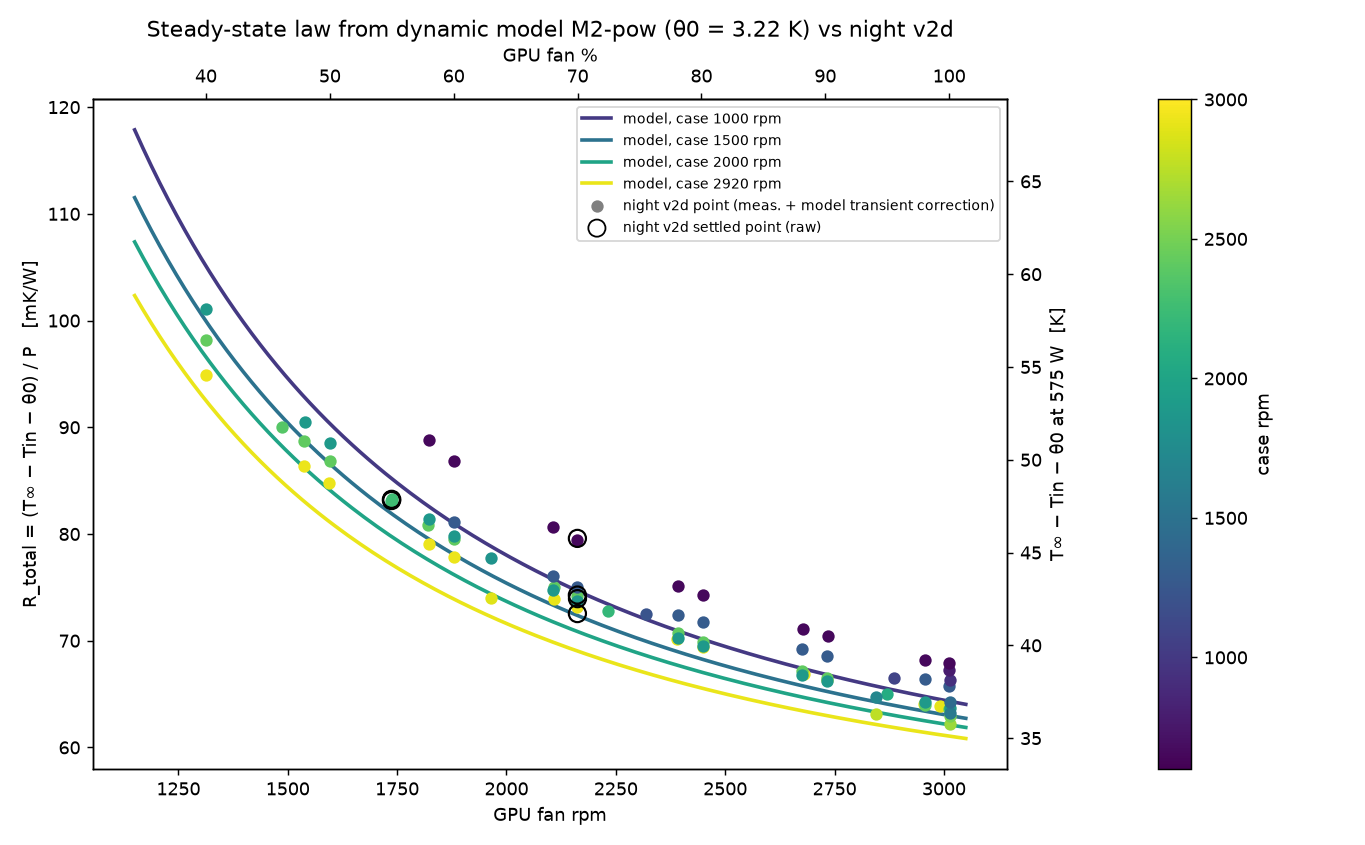
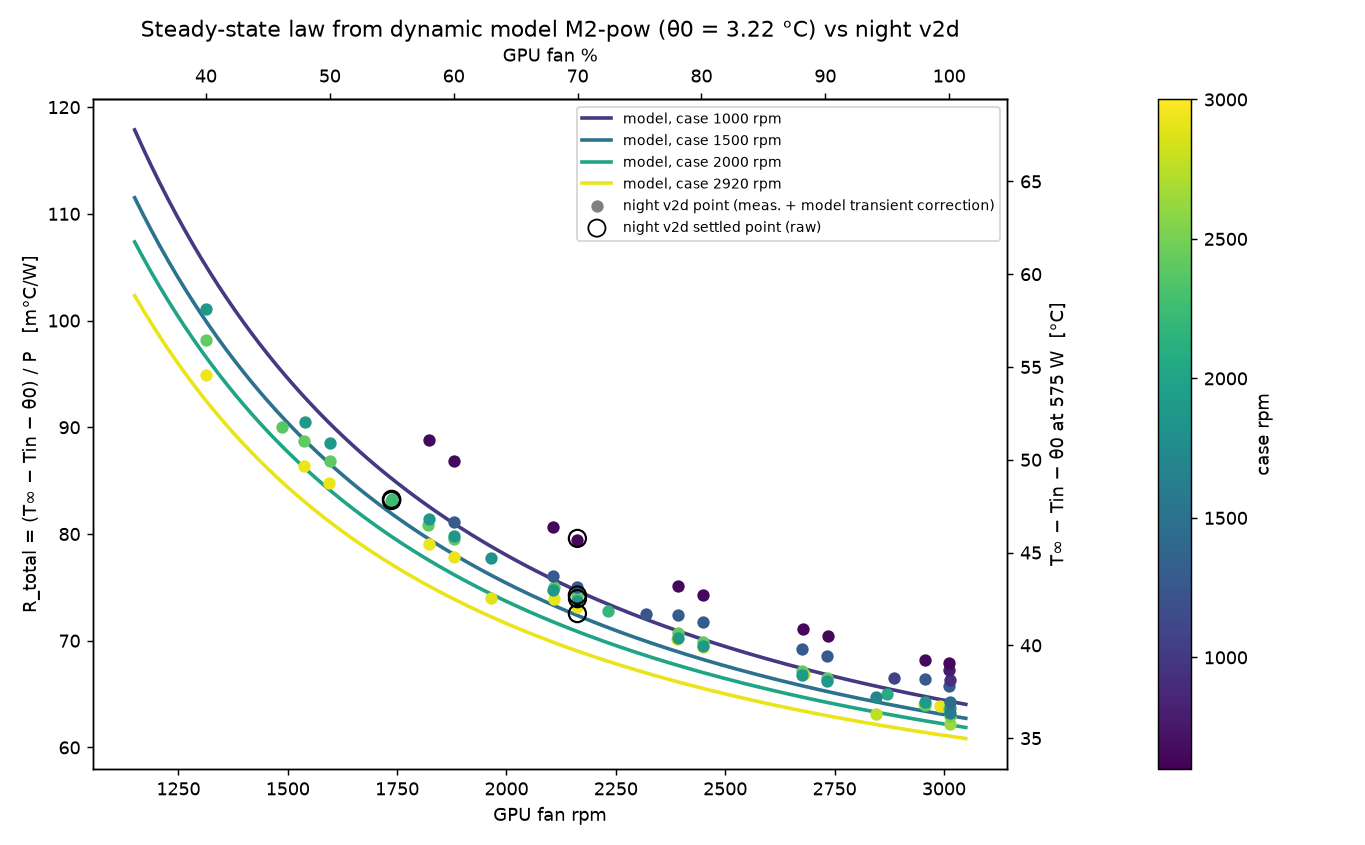
°C everywhere (no kelvins): figures, notes, convergence CSV header

diff --git a/scripts/dyn_model.py b/scripts/dyn_model.py
@@ -33,10 +33,9 @@ N0 = 300.0
 # ---------------------------------------------------------------- data
 def _nvapi_core(d):
     """0.01 degC core (nvapi/0/1) from the long log; tolerates truncated gzip."""
-    f = glob.glob(os.path.join(d, "long-*.csv.gz"))
     out = {}
-    if f:
-        txt = zlib.decompressobj(31).decompress(open(f[0], "rb").read()).decode(errors="ignore")
+    for fn in sorted(glob.glob(os.path.join(d, "long-*.csv.gz"))):
+        txt = zlib.decompressobj(31).decompress(open(fn, "rb").read()).decode(errors="ignore")
         for line in txt.splitlines():
             if ",nvapi/0/1," in line:
                 p = line.split(",")
@@ -50,6 +49,10 @@ def _nvapi_core(d):
 def load(name, d=None):
     d = d or os.path.join(HERE, "data", f"{name}-2026-10-21")
     rows = list(csv.DictReader(open(os.path.join(d, "raw.csv"))))
+    tt = np.array([int(r["t"]) for r in rows])
+    gaps = np.where(np.diff(tt) > 20)[0]                               # logger restarts: keep the part after the last one
+    if len(gaps):
+        rows = rows[gaps[-1] + 1:]
     nv = _nvapi_core(d)
     t = np.array([int(r["t"]) for r in rows], float)
     f = lambda k: np.array([float(r[k]) for r in rows])
@@ -69,11 +72,34 @@ def load(name, d=None):
 BASE = {1: dict(r0=0.03, Cj=3000), 2: dict(Rjs=0.02, ra=0.01, Cj=200, Cs=3000),
         3: dict(Rjs=0.015, Rps=0.01, ra=0.01, Cj=50, Cp=500, Cs=3000)}
 FORM = {"pow": dict(k=0.09, m=1.6), "sat": dict(k=0.2, m=2.0, s=0.8), "conv": dict(k=0.05, m=0.8, kc=0.03)}
-LIN = dict(m=(0.2, 4.0), q=(0.0, 1.5), th0=(-15.0, 15.0))       # linear params; all others log in [1e-5, 1e6]
+LIN = dict(m=(0.2, 4.0), q=(0.0, 1.5), th0=(-15.0, 15.0), qa=(0.0, 3.0))       # linear params; all others log in [1e-5, 1e6]
 
 
-def spec(kind, form):
-    return {**BASE[kind], **FORM[form], "q": 0.3, "th0": 0.0}
+def spec(kind, form, theta="free"):
+    """theta: free = constant offset th0; zero = none; drift = slow intake offset
+    tau_a dtheta/dt = th0 + phi*P*(C/1500)^-qa - theta  (case air warmed by the card's own heat)."""
+    s = {**BASE[kind], **FORM[form], "q": 0.3, "th0": 0.0}
+    if theta == "drift":
+        s.update(phi=0.003, qa=0.5, taua=300.0)
+    return s
+
+
+def drift(p):
+    return "taua" in p
+
+
+def tin_eff(p, D):
+    if not drift(p):
+        return np.asarray(D["Tin"], float)
+    tgt = p["th0"] + p["phi"] * np.asarray(D["P"], float) * (np.asarray(D["C"], float) / 1500.0) ** -p["qa"]
+    a = np.exp(-1.0 / p["taua"]); th = np.empty_like(tgt); x = tgt[0]
+    for i, g in enumerate(tgt.tolist()):
+        th[i] = x; x = a * x + (1 - a) * g
+    return np.asarray(D["Tin"], float) + th
+
+
+def offset(p):
+    return 0.0 if drift(p) else p["th0"]
 
 
 def rfan(p, N, C):
@@ -113,6 +139,13 @@ def simulate(A, b, x0):
     c = np.einsum("nij,nj->ni", Phi - np.eye(K), np.linalg.solve(Am, bm[..., None])[..., 0])
     X = np.empty((n, K)); X[0] = x0; x = np.asarray(x0, float)
     Phi, c = Phi.tolist(), c.tolist()
+    if K == 2:                                                   # fast path
+        a, b2 = x
+        for i in range(n - 1):
+            F, cc = Phi[i], c[i]
+            a, b2 = F[0][0] * a + F[0][1] * b2 + cc[0], F[1][0] * a + F[1][1] * b2 + cc[1]
+            X[i + 1, 0] = a; X[i + 1, 1] = b2
+        return X
     for i in range(n - 1):
         F, cc = Phi[i], c[i]
         x = [sum(F[r][j] * x[j] for j in range(K)) + cc[r] for r in range(K)]
@@ -125,15 +158,22 @@ def steady(A, b):
 
 
 def run(p, D, kind):
-    A, b = system(p, D, kind)
+    A, b = system(p, dict(D, Tin=tin_eff(p, D)), kind)
     x0 = steady(A[0], b[0])
-    x0 = x0 + (D["core"][0] - p["th0"] - x0[0])          # start in equilibrium, shifted to the first reading
+    x0 = x0 + (D["core"][0] - offset(p) - x0[0])         # start in equilibrium, shifted to the first reading
     return simulate(A, b, x0)
 
 
 def core_pred(p, D, kind):
     X = run(p, D, kind)
-    return X[:, 0] + p["th0"], X
+    return X[:, 0] + offset(p), X
+
+
+def steady_core(p, N, C, P, Tin, kind):
+    """Steady core temperature for constant inputs."""
+    N, C, P, Tin = (np.asarray(v, float) for v in (N, C, P, Tin))
+    extra = p["th0"] + (p["phi"] * P * (C / 1500.0) ** -p["qa"] if drift(p) else 0.0)
+    return Tin + extra + P * R_total(p, N, C, kind)
 
 
 def R_total(p, N, C, kind):
@@ -142,16 +182,19 @@ def R_total(p, N, C, kind):
     return s + rfan(p, N, C)
 
 
-def fit_core(Ds, kind, form="pow", fixed=None, p0=None):
+def fit_core(Ds, kind, form="pow", fixed=None, p0=None, theta="free", full=False):
     fixed = {**(fixed or {}), "form": form}
-    p0 = dict(p0 or spec(kind, form))
-    names = [k for k in spec(kind, form) if k not in fixed]
+    if theta == "zero":
+        fixed["th0"] = 0.0
+    p0 = {**spec(kind, form, theta), **(p0 or {})}
+    names = [k for k in spec(kind, form, theta) if k not in fixed]
     lo = np.array([LIN[k][0] if k in LIN else np.log(1e-5) for k in names])
     hi = np.array([LIN[k][1] if k in LIN else np.log(1e6) for k in names])
     unp = lambda v: {**fixed, **{k: (float(x) if k in LIN else float(np.exp(x))) for k, x in zip(names, v)}}
     v0 = np.clip([p0[k] if k in LIN else np.log(p0[k]) for k in names], lo + 1e-6, hi - 1e-6)
     res = lambda v: np.concatenate([core_pred(unp(v), D, kind)[0] - D["core"] for D in Ds])
-    return unp(least_squares(res, v0, bounds=(lo, hi), x_scale="jac", max_nfev=300).x)
+    r = least_squares(res, v0, bounds=(lo, hi), x_scale="jac", max_nfev=300)
+    return (unp(r.x), r, names) if full else unp(r.x)
 
 
 # ---------------------------------------------------------------- memory node (after the core)
@@ -303,14 +346,14 @@ def main():
     fig, ax = plt.subplots(4, 1, figsize=(15, 11), sharex=True, gridspec_kw=dict(height_ratios=[3, 3, 1.3, 1.3]))
     tm = D["t"] / 60
     ax[0].plot(tm, D["core"], color="0.2", lw=0.8, label="core measured (NVAPI 0.01 °C)")
-    ax[0].plot(tm, yc, color="tab:red", lw=0.9, label=f"{best} simulated, free run (RMSE {rmse(yc, D['core']):.2f} K)")
-    ax[0].plot(tm, y1, color="tab:blue", lw=0.6, alpha=0.6, label=f"M1 1-node (RMSE {rmse(y1, D['core']):.2f} K)")
+    ax[0].plot(tm, yc, color="tab:red", lw=0.9, label=f"{best} simulated, free run (RMSE {rmse(yc, D['core']):.2f} °C)")
+    ax[0].plot(tm, y1, color="tab:blue", lw=0.6, alpha=0.6, label=f"M1 1-node (RMSE {rmse(y1, D['core']):.2f} °C)")
     ax[0].set_ylabel("core °C"); ax[0].legend(loc="lower right", fontsize=8)
     ax[1].plot(tm, D["mem"], color="0.2", lw=0.8, label="memory measured (1 °C steps)")
-    ax[1].plot(tm, ym, color="tab:purple", lw=0.9, label=f"memory node (RMSE {rmse(ym, D['mem']):.2f} K)")
+    ax[1].plot(tm, ym, color="tab:purple", lw=0.9, label=f"memory node (RMSE {rmse(ym, D['mem']):.2f} °C)")
     ax[1].set_ylabel("memory °C"); ax[1].legend(loc="lower right", fontsize=8)
     ax[2].plot(tm, yc - D["core"], color="tab:red", lw=0.6); ax[2].axhline(0, color="0.5", lw=0.5)
-    ax[2].set_ylabel("core sim−meas K")
+    ax[2].set_ylabel("core sim−meas °C")
     ax[3].plot(tm, D["P"], color="tab:orange", lw=0.6); ax[3].set_ylabel("board W", color="tab:orange")
     a3 = ax[3].twinx(); a3.plot(tm, rpm2pct(D["N"]), color="tab:green", lw=0.6); a3.set_ylabel("GPU fan % (green)", fontsize=8)
     a3b = a3.secondary_yaxis(1.07, functions=(pct2rpm, rpm2pct)); a3b.set_ylabel("GPU fan rpm", fontsize=8)
@@ -322,9 +365,9 @@ def main():
     for a, D in zip(ax, test):
         yc, X = core_pred(p, D, kind); ym = mem_sim(pm, D, X); tm = D["t"] / 60
         a.plot(tm, D["core"], color="0.2", lw=0.8, label="core measured")
-        a.plot(tm, yc, color="tab:red", lw=0.9, label=f"core sim (RMSE {rmse(yc, D['core']):.2f} K)")
+        a.plot(tm, yc, color="tab:red", lw=0.9, label=f"core sim (RMSE {rmse(yc, D['core']):.2f} °C)")
         a.plot(tm, D["mem"], color="0.6", lw=0.8, label="memory measured")
-        a.plot(tm, ym, color="tab:purple", lw=0.9, label=f"memory sim (RMSE {rmse(ym, D['mem']):.2f} K)")
+        a.plot(tm, ym, color="tab:purple", lw=0.9, label=f"memory sim (RMSE {rmse(ym, D['mem']):.2f} °C)")
         note = " (memory node trained on it)" if D["name"] == "log-1" else ""
         a.set_title(f"TEST {D['name']} — core not fitted on it{note}; free-run simulation from the first sample", fontsize=10)
         a.set_ylabel("°C"); a.legend(fontsize=8, loc="lower right", ncol=2)
@@ -343,12 +386,12 @@ def main():
             ax.scatter(n["N"], 1000 * (n["steady"] - n["Tin"] - p["th0"]) / n["P"], facecolor="none", edgecolor="k", s=90, lw=1.2, zorder=4)
     ax.scatter([], [], color="0.5", s=34, label="night v2d point (meas. + model transient correction)")
     ax.scatter([], [], facecolor="none", edgecolor="k", s=90, label="night v2d settled point (raw)")
-    ax.set_xlabel("GPU fan rpm"); ax.set_ylabel("R_total = (T∞ − Tin − θ0) / P   [mK/W]")
+    ax.set_xlabel("GPU fan rpm"); ax.set_ylabel("R_total = (T∞ − Tin − θ0) / P   [m°C/W]")
     sec = ax.secondary_xaxis("top", functions=(rpm2pct, pct2rpm)); sec.set_xlabel("GPU fan %")
-    lo, hi = ax.get_ylim(); a2 = ax.twinx(); a2.set_ylim(lo * 0.575, hi * 0.575); a2.set_ylabel("T∞ − Tin − θ0 at 575 W  [K]")
+    lo, hi = ax.get_ylim(); a2 = ax.twinx(); a2.set_ylim(lo * 0.575, hi * 0.575); a2.set_ylabel("T∞ − Tin − θ0 at 575 W  [°C]")
     fig.colorbar(plt.cm.ScalarMappable(cmap=cm, norm=plt.Normalize(600, 3000)), ax=a2, pad=0.12, label="case rpm")
     ax.legend(loc="upper right", fontsize=8)
-    ax.set_title(f"Steady-state law from dynamic model {best} (θ0 = {p['th0']:.2f} K) vs night v2d")
+    ax.set_title(f"Steady-state law from dynamic model {best} (θ0 = {p["th0"]:.2f} °C) vs night v2d")
     fig.tight_layout(); fig.savefig(os.path.join(OUT, "dyn-c-steady.png"), dpi=130); plt.close(fig)
 
 

diff --git a/scripts/fig_dyn.py b/scripts/fig_dyn.py
@@ -59,8 +59,8 @@ def figA(theme, phone):
     fig.patch.set_facecolor(th["bg"]); D = train; tm = D["t"] / 60
     for a in ax: style(a, th, fs)
     ax[0].plot(tm, D["core"], color=th["meas"], lw=0.9, label="measured")
-    ax[0].plot(tm, yc2, color=RED, lw=1.0, label=f"thermal mass + die resistance, RMSE {rm(yc2, D['core']):.2f} K")
-    ax[0].plot(tm, yc1, color=BLUE, lw=0.8, alpha=0.8, label=f"one node, RMSE {rm(yc1, D['core']):.1f} K")
+    ax[0].plot(tm, yc2, color=RED, lw=1.0, label=f"thermal mass + die resistance, RMSE {rm(yc2, D['core']):.2f} °C")
+    ax[0].plot(tm, yc1, color=BLUE, lw=0.8, alpha=0.8, label=f"one node, RMSE {rm(yc1, D['core']):.1f} °C")
     ax[0].set_ylabel("Core (°C)"); ax[0].legend(fontsize=fs - 2, frameon=False, labelcolor=th["fg"], loc="upper right")
     inputs(ax[1:], th, fs, D, tm); ax[3].set_xlabel("Minutes from the start of the second run")
     fig.tight_layout(); fig.align_ylabels(ax)
@@ -78,7 +78,7 @@ def figB(theme, phone):
         tm = D["t"] / 60; ym = dm.mem_sim(pm, D, X)
         ax.plot(tm, D["mem"], color=th["dim"], lw=0.9); ax.plot(tm, ym, color=PURPLE, lw=1.0)
         ax.plot(tm, D["core"], color=th["meas"], lw=0.9); ax.plot(tm, yc, color=RED, lw=1.0)
-        ax.set_title(f"{LABEL[D['name']]}" + ("\n" if phone else ": ") + f"core RMSE {rm(yc, D['core']):.2f} K, memory {rm(ym, D['mem']):.1f} K", loc="left", fontsize=fs - 1, color=th["fg"])
+        ax.set_title(f"{LABEL[D['name']]}" + ("\n" if phone else ": ") + f"core RMSE {rm(yc, D['core']):.2f} °C, memory {rm(ym, D["mem"]):.1f} °C", loc="left", fontsize=fs - 1, color=th["fg"])
         ax.set_ylabel("°C"); ax.tick_params(labelbottom=False)
         inputs(ins, th, fs, D, tm); ins[-1].set_xlabel("Minutes from the start of the log")
         fig.align_ylabels([ax, *ins])

diff --git a/scripts/val1_check.py b/scripts/val1_check.py
@@ -58,7 +58,7 @@ for kind in ("small falling step", "large step"):
 res["convergence"] = summ; res["convergence_points"] = conv
 json.dump(res, open(os.path.join(out, "val1-check.json"), "w"), indent=1)
 with open(os.path.join(out, "val1-convergence.csv"), "w", newline="") as fh:
-    w = csv.writer(fh); w.writerow(["order", "case_rpm", "gpu_pct", "pl_pct", "step_type", "step", "settled_core_c", *[f"core_{m}min_minus_settled_k" for m in (1, 2, 3, 5, 8, 12)]])
+    w = csv.writer(fh); w.writerow(["order", "case_rpm", "gpu_pct", "pl_pct", "step_type", "step", "settled_core_c", *[f"core_{m}min_minus_settled_c" for m in (1, 2, 3, 5, 8, 12)]])
     for c, r in zip(conv, rows): w.writerow([c["i"] + 1, r["case_rpm_target"], r["gpu_pct"], r["pl_pct"], c["kind"], c["step"], r["core_c_max"], *[("" if c["d"][m] is None else round(c["d"][m], 2)) for m in (1, 2, 3, 5, 8, 12)]])
 print(json.dumps({k: v for k, v in res.items() if k != "convergence_points"}, indent=1))
 for c in conv: print(c["i"] + 1, c["kind"][:5], c["step"], {m: (None if v is None else round(v, 1)) for m, v in c["d"].items()})

diff --git a/notes/NOTATKI-RECZNE-2026-10-21.md b/notes/NOTATKI-RECZNE-2026-10-21.md
@@ -173,23 +173,42 @@ PL 70 % (402 W):
 **Conclusions:**
 1. **Card fans dominate:** at PL 100 going from card 40 → 100 % lowers the core by ~20 °C (83 → 61 at case 1000) and memory by ~24 °C (92 → 68).
 2. **Case fans matter only at low card speed:** at card 40 % case 1000 → 2920 rpm = core −9 °C, memory −10 °C; from card 60 % upwards the difference is ≤ 2 °C. 1500 rpm (Seb's acoustic ceiling) gives about 1/3 of that gain at card 40 %.
-3. **Power limit 575 → 402 W** = core −13 °C and memory −8 °C at card 40 %; at card 100 % core −12, memory −6. Memory gains less from PL, so the memory−core gap grows from ~8 K (575 W) to ~13 K (402 W).
+3. **Power limit 575 → 402 W** = core −13 °C and memory −8 °C at card 40 %; at card 100 % core −12, memory −6. Memory gains less from PL, so the memory−core gap grows from ~8 °C (575 W) to ~13 °C (402 W).
 4. **No thermal throttling** anywhere (power cap only); the hottest point 1000 rpm / card 40 % / 575 W = core 83, memory 92, hot spot 94 °C, i.e. below the memory working limit of 100 °C, but memory above 90 °C.
 5. **Method:** 60 s per point isn't enough after big jumps (PL 70 → 100 points +3 °C/min, card jump 100 → 40 % 10–15 °C too low). For tomorrow (2 cards) the adaptive time is in the code (≥ 5 min after a change of case, card down > 10 pts, PL up ≥ 20 pts), not yet released.
 
 ## Model rdzenia — rozszerzenia fizyczne (17:50, model_physics_core.py)
-- Bazowy A: T = Tin + θ0 + P·[r∞ + k·N^−m·C^−q], RMSE 0,82 / LOO 0,85 K, θ0 = 10,8 K.
-- Po korekcie punktów 60 s do stanu ustalonego (pierwszy rząd, T∞ ≈ T + slope·τ, τ ≈ 70 s): **θ0 spada do ~0,7 K**, RMSE 0,72 / LOO 0,74 K, ustalone 0,58 K. Wniosek: θ0 był artefaktem nieustalonych punktów; fizycznie czysty model T = Tin + P·R(N, C).
-- Człon kaloryczny/recyrkulacji P/C lub P/N: poprawa ≤ 0,05 K i niefizyczne znaki → odrzucone.
+- Bazowy A: T = Tin + θ0 + P·[r∞ + k·N^−m·C^−q], RMSE 0,82 / LOO 0,85 °C, θ0 = 10,8 °C.
+- Po korekcie punktów 60 s do stanu ustalonego (pierwszy rząd, T∞ ≈ T + slope·τ, τ ≈ 70 s): **θ0 spada do ~0,7 °C**, RMSE 0,72 / LOO 0,74 °C, ustalone 0,58 °C. Wniosek: θ0 był artefaktem nieustalonych punktów; fizycznie czysty model T = Tin + P·R(N, C).
+- Człon kaloryczny/recyrkulacji P/C lub P/N: poprawa ≤ 0,05 °C i niefizyczne znaki → odrzucone.
 - Następny krok: model dynamiczny (sieć RC Fostera/Cauera, τ zależne od N i C) dopasowany do logów 1 Hz zamiast średnich 60 s; dwa węzły rdzeń↔pamięć na wspólnym radiatorze; GP na resztach dla niepewności; jutro zmienne 2. karty (moc sąsiadki, odstęp w slotach, pozycja).
 
 ## Model dynamiczny (18:05, `dyn_model.py`)
 Sieć RC (Cauer) dopasowana do **całych przebiegów 1 Hz** (symulacja swobodna od pierwszej próbki, bez resetów; dyskretyzacja dokładna przez exp. macierzy, 1 s). Uczenie: grid1c. Test: log-1, grid1d, hold + cała noc v2d. Wejścia: P(t), obroty karty N(t), obudowy C(t), Tin(t). Rdzeń z NVAPI (0,01 °C).
 - **Najlepszy: M2 (2 węzły), wzór potęgowy.** Rdzeń = radiator + **natychmiastowy skok P·Rjs** (pojemność krzemu → 0, τ < 1 s, przy 1 Hz niewidoczne) + jedna wolna stała czasu radiatora.
-  T∞ = Tin + θ0 + P·[Rjs + ra + k·(N/1000)^−m·(C/1500)^−q]; Rjs = 38,6 mK/W, ra = 11,4 mK/W, k = 82,0 mK/W, m = 1,67, q = 0,24, θ0 = 3,2 K, C radiatora = 1935 J/K.
-- **RMSE symulacji rdzenia:** uczenie 0,53 K; test log-1 0,92, grid1d 1,01, hold 1,00 (razem dzień 0,97 K); noc v2d 1,89 K (model stale ~2 K za chłodny). 1 węzeł: 2,3 / 4,2 K — odrzucony. 3 węzły nic nie dają (drugi węzeł też zapada się do zera).
-- **Stała czasu (radiator):** 129 s (40 %, obudowa 1000) → 104 s (40 %, 2920) → 82/68 s (60 %) → 50/43 s (100 %). τ ≈ C·R_radiatora, więc rośnie przy wolnych wentylatorach. Do tego natychmiastowy skok rdzenia ≈ 22 K przy 575 W (dlatego zmiana PL „działa od razu”).
-- **θ0 NIE znika** w modelu dynamicznym: 3,2 K; wymuszenie θ0 = 0 psuje test (0,97 → 1,68 K). Na nocnych punktach ustalonych model jest 2,1 K za nisko (7 pkt). Interpretacja: realny podgrzew powietrza wlotowego karty w obudowie (CPU/zasilacz) zależny od sesji — a nie artefakt 60 s. Warto dołożyć czujnik powietrza tuż przy wlocie karty.
-- **Kształt przy niskich obrotach** (uwaga koordynatora: model statyczny za gorący o 1,5–2,2 K przy 40 %/PL100): w dynamice bias przy N ≤ 1350 rpm i pełnej mocy = **+0,10 K** — czyli to był efekt nieustalonych punktów, nie kształt. Formy z nasyceniem k/(n^m+s^m) i konwekcja+człon kaloryczny (k·n^−m + kc/n) nie poprawiają testu (sat 1,13 K, conv = pow, kc → 0).
-- **Pamięć:** węzeł 1. rzędu przy radiatorze: τm dTm/dt = Tin + 1,035·(Ts − Tin) + 0,0078·P + 15,3·[obciążenie] + 12,2 − Tm, τm = 10 s. Uczona na grid1c + log-1 (grid1c nie ma biegu jałowego). RMSE: grid1c 0,85, grid1d 1,46, hold 1,32, noc 2,31 K (odczyt pamięci tylko co 1 °C).
+  T∞ = Tin + θ0 + P·[Rjs + ra + k·(N/1000)^−m·(C/1500)^−q]; Rjs = 38,6 m°C/W, ra = 11,4 m°C/W, k = 82,0 m°C/W, m = 1,67, q = 0,24, θ0 = 3,2 °C, C radiatora = 1935 J/°C.
+- **RMSE symulacji rdzenia:** uczenie 0,53 °C; test log-1 0,92, grid1d 1,01, hold 1,00 (razem dzień 0,97 °C); noc v2d 1,89 °C (model stale ~2 °C za chłodny). 1 węzeł: 2,3 / 4,2 °C — odrzucony. 3 węzły nic nie dają (drugi węzeł też zapada się do zera).
+- **Stała czasu (radiator):** 129 s (40 %, obudowa 1000) → 104 s (40 %, 2920) → 82/68 s (60 %) → 50/43 s (100 %). τ ≈ C·R_radiatora, więc rośnie przy wolnych wentylatorach. Do tego natychmiastowy skok rdzenia ≈ 22 °C przy 575 W (dlatego zmiana PL „działa od razu”).
+- **θ0 NIE znika** w modelu dynamicznym: 3,2 °C; wymuszenie θ0 = 0 psuje test (0,97 → 1,68 °C). Na nocnych punktach ustalonych model jest 2,1 °C za nisko (7 pkt). Interpretacja: realny podgrzew powietrza wlotowego karty w obudowie (CPU/zasilacz) zależny od sesji — a nie artefakt 60 s. Warto dołożyć czujnik powietrza tuż przy wlocie karty.
+- **Kształt przy niskich obrotach** (uwaga koordynatora: model statyczny za gorący o 1,5–2,2 °C przy 40 %/PL100): w dynamice bias przy N ≤ 1350 rpm i pełnej mocy = **+0,10 °C** — czyli to był efekt nieustalonych punktów, nie kształt. Formy z nasyceniem k/(n^m+s^m) i konwekcja+człon kaloryczny (k·n^−m + kc/n) nie poprawiają testu (sat 1,13 °C, conv = pow, kc → 0).
+- **Pamięć:** węzeł 1. rzędu przy radiatorze: τm dTm/dt = Tin + 1,035·(Ts − Tin) + 0,0078·P + 15,3·[obciążenie] + 12,2 − Tm, τm = 10 s. Uczona na grid1c + log-1 (grid1c nie ma biegu jałowego). RMSE: grid1c 0,85, grid1d 1,46, hold 1,32, noc 2,31 °C (odczyt pamięci tylko co 1 °C).
 - Pliki: `results-2026-10-21/dyn-a-grid1c.png`, `dyn-b-test.png`, `dyn-c-steady.png`, `dyn-model.json`. Seria val1 jeszcze nie dotarła — skrypt sam ją doda do testu, gdy pojawi się `data/val1-2026-10-21/raw.csv`.
+
+**Seb pyta, czy wszystkie pomiary zrobione (21:2x):** val1 ✓ (20/20, 20:42), dyn1 ✓ (56/56, 23:21), val2 w toku (od 23:21, koniec ~01:30). Model dynamiczny na pełnych danych: przeliczany po dyn1 (cross-walidacja), publikacja po val2.
+
+## Model dynamiczny – pełne dane (wieczór, `dyn_cv.py`)
+Dane: grid1c, dyn1 (56 losowych kroków, hiperkostka łacińska), val1 (20 pkt ustalonych), log-1, hold, grid1d; noc v2d tylko jako test. RMSE = symulacja swobodna 1 Hz od pierwszej próbki.
+- **Walidacja krzyżowa (rdzeń, K):**
+  (a) uczenie grid1c → dyn1 **0,56**, val1 0,66, log-1 0,92, hold 1,00, grid1d 1,01, noc 1,89 — model z popołudnia przeszedł losowe skoki bez poprawek.
+  (b) uczenie dyn1 → grid1c 1,05, val1 0,86, log-1 1,88, hold 1,54, grid1d 1,35 — sam dyn1 słabiej przenosi się na długie biegi z biegiem jałowym (słabo określa θ0/ra).
+  (c) pomijanie po jednym przebiegu (LORO): grid1c 0,61, dyn1 0,59, val1 0,65, log-1 0,97, hold 0,99, grid1d 0,86 → **razem 0,72 °C**; noc 2,0 °C.
+  val1, punkty ustalone (stan ustalony z modelu vs pomiar): **0,65 °C** (val1 pominięty w uczeniu), 0,60 °C w uczeniu.
+- **Forma:** potęgowa = konwekcja+kaloryczny (kc → 0) 0,72; z nasyceniem 0,74; **θ0 = 0: 1,03** (hold 2,15) → stały przesuw jest potrzebny; dryf wlotu (θ0 + φ·P·C^−qa, τ ≈ 200 s) 0,716 — zysk 0,008 °C przy 3 słabo określonych parametrach → odrzucony (zasada: dodatkowe parametry muszą dać > 0,05 °C).
+- **Model zalecany (wszystkie dane dzienne), 95 % CI** (poprawione na autokorelację reszt ρ = 0,81):
+  T∞ = Tin + θ0 + P·[Rjs + ra + k·(N/1000)^−m·(C/1500)^−q]
+  Rjs = 39,2 [38,9–39,5] m°C/W (skok natychmiastowy), ra = 11,5 [10,9–12,1] m°C/W, k = 81,8 [81,5–82,1] m°C/W, m = 1,71 [1,67–1,74], q = 0,281 [0,275–0,287], θ0 = 3,20 [3,10–3,30] K, C radiatora = 1929 [1900–1959] J/°C. Rozrzut LORO podobnej wielkości (m 1,64–1,74, θ0 3,10–3,44).
+- **τ(N, C):** 40 %: 129 s (obudowa 1000) / 117 (1500) / 110 (2000) / 101 (2920); 60 %: 81/75/71/66; 80 %: 60/56/54/50; 100 %: 49/46/44/42 s. Plus natychmiastowy skok rdzenia ≈ 39 m°C/W·ΔP (np. PL 100→70 % = −6,8 °C od razu).
+- **Pamięć:** τm = 10 s, Tm∞ = Tin + 1,024·(Ts − Tin) + 0,0103·P + 14,7·[obciążenie] + 11,9; LORO RMSE 0,68–1,42 °C (dyn1 0,68, val1 0,85), noc 2,4 °C.
+- **Tabela do krzywych:** `results-2026-10-21/dyn-steady-lookup.md` / `.csv` (Tin 19/25/30 × karta 40–100 % × obudowa 1000/1500/2000/2920 × PL 70–100 %). Np. Tin 30, PL 100, karta 40 %, obudowa 1500 → 90,7 °C (powyżej progu 88 °C). Tin 25/30 to ekstrapolacja 1:1 z temperaturą powietrza (dane tylko 19–20 °C).
+- **Ograniczenia:** noc v2d stale ~2 °C cieplejsza od modelu → θ0 zależy od sesji/stanu obudowy (czujnik powietrza przy wlocie karty by to rozstrzygnął). 1 karta, otwarta góra obudowy.
+- Wykresy: `dyn-d-dyn1.png`, `dyn-e-cv.png`, `dyn-f-steady-maps.png`; liczby `dyn-cv.json`. val2 (~01:30) — dołożyć do DAY w `dyn_cv.py` i puścić ponownie.
